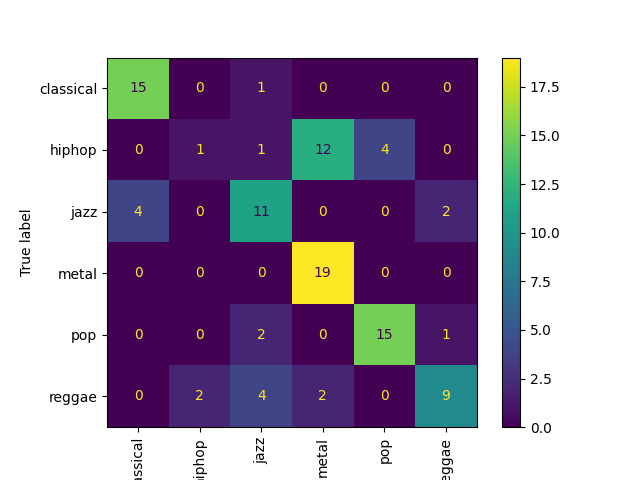
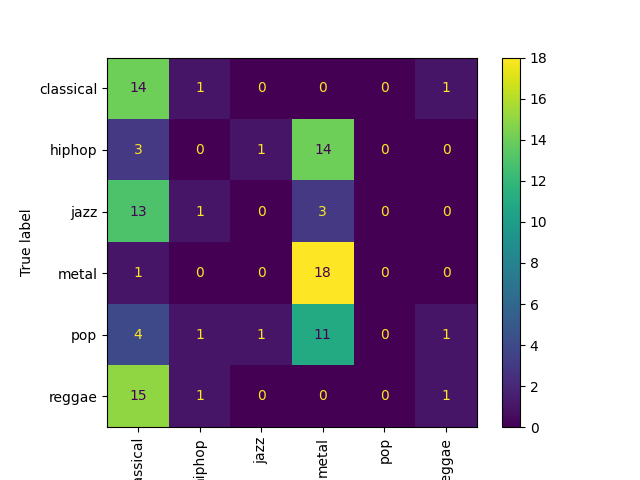
Encoder LSTM

diff --git a/LSTM-Music-Genre-Classification-master/LSTM-Music-Genre-Classification-master/lstm_genre_classifier_pytorch.py b/LSTM-Music-Genre-Classification-master/LSTM-Music-Genre-Classification-master/lstm_genre_classifier_pytorch.py
@@ -31,45 +31,6 @@ from torch import nn
 from torch.autograd import Variable
 import torch.nn.functional as F
 
-
-class StackedAutoencoder(nn.Module):
-    def __init__(self, input_dim, hidden_dims):
-        super(StackedAutoencoder, self).__init__()
-        
-        self.encoders = nn.ModuleList()
-        self.decoders = nn.ModuleList()
-        
-        # Construir los encoders y decoders
-        for i in range(len(hidden_dims) - 1):
-            encoder = nn.Linear(hidden_dims[i], hidden_dims[i+1])
-            decoder = nn.Linear(hidden_dims[i+1], hidden_dims[i])
-            
-            self.encoders.append(encoder)
-            self.decoders.append(decoder)
-        
-    def forward(self, x):
-        encoded = x
-        
-        # Codificar
-        print("encoder")
-        for encoder in self.encoders:
-            print(encoded.size())
-            encoded = F.relu(encoder(encoded))
-        
-        decoded = encoded
-        
-        self.decoders = nn.ModuleList(reversed(self.decoders))
-        
-        # Decodificar
-        print("decoder")
-        for decoder in self.decoders:
-            print(decoded.size())
-            decoded = F.relu(decoder(decoded))
-        
-        return decoded
-
-
-
 # class definition
 class LSTM(nn.Module):
     def __init__(self, input_dim, hidden_dim, batch_size, output_dim=8, num_layers=2):
@@ -85,20 +46,38 @@ class LSTM(nn.Module):
         # batchnormalisation
         self.batch = nn.BatchNorm1d(num_features=self.hidden_dim)
 
-        input_size = input_dim
-        hidden_sizes = [input_dim, hidden_dim, 64, 32]  # Tamaños de las capas ocultas
-
-        # Crear el Stacked Autoencoder
-        self.stacked_autoencoder = StackedAutoencoder(input_size, hidden_sizes)
-
         # setup output layer
         self.linear = nn.Linear(self.hidden_dim, output_dim)
 
+        self.encoder_mfcc = nn.Sequential(
+            nn.Conv2d(128, 64, kernel_size=(3, 3), padding="same"),
+            nn.ReLU(),
+            nn.Conv2d(64, 32, kernel_size=(3, 3), padding="same"),
+            nn.ReLU()
+        )
+
+        self.encoder_chroma = nn.Sequential(
+            nn.Conv2d(128, 64, kernel_size=5, padding="same"),
+            nn.ReLU(),
+            nn.AvgPool2d(kernel_size=(1, 1), stride=(1, 1)),
+            nn.Conv2d(64, 32, kernel_size=5, padding="same"),
+            nn.ReLU()
+        )
+
     def forward(self, input, h, c):
-        out = self.stacked_autoencoder(input)
-        print("forward")
-        print(out.size())
-        out, (h, c) = self.lstm(out, (h, c))
+        input1 = torch.zeros([32, input.size()[1], input.size()[2]])
+        mfcc = input[:, :, 0:13]
+        mfcc = self.encoder_mfcc(mfcc)
+        input1[:, :, 0:13] = mfcc
+        chroma = input[:, :, 14:26]
+        chroma = self.encoder_chroma(chroma)
+        input1[:, :, 14:26] = chroma
+        spectral_contrast = input[:, :, 27:33]
+        spectral_contrast = self.encoder_chroma(spectral_contrast)
+        input1[:, :, 27:33] = spectral_contrast
+        device = torch.device("cuda:0" if torch.cuda.is_available() else "cpu")
+        input1 = input1.to(device)
+        out, (h, c) = self.lstm(input1, (h, c))
         out = self.batch(out[-1])
         out = self.linear(out)
         return out, h, c
